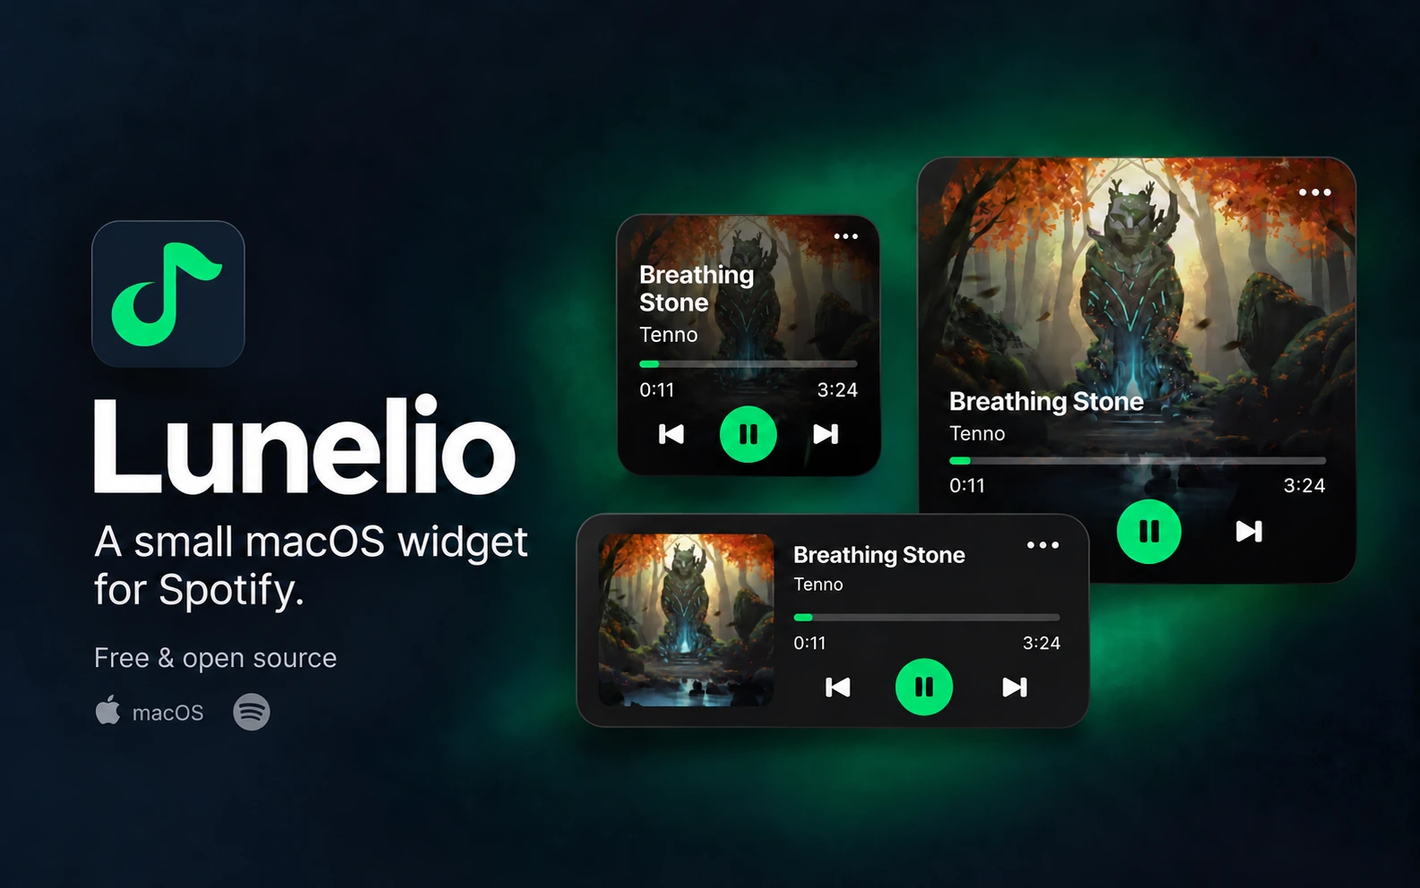
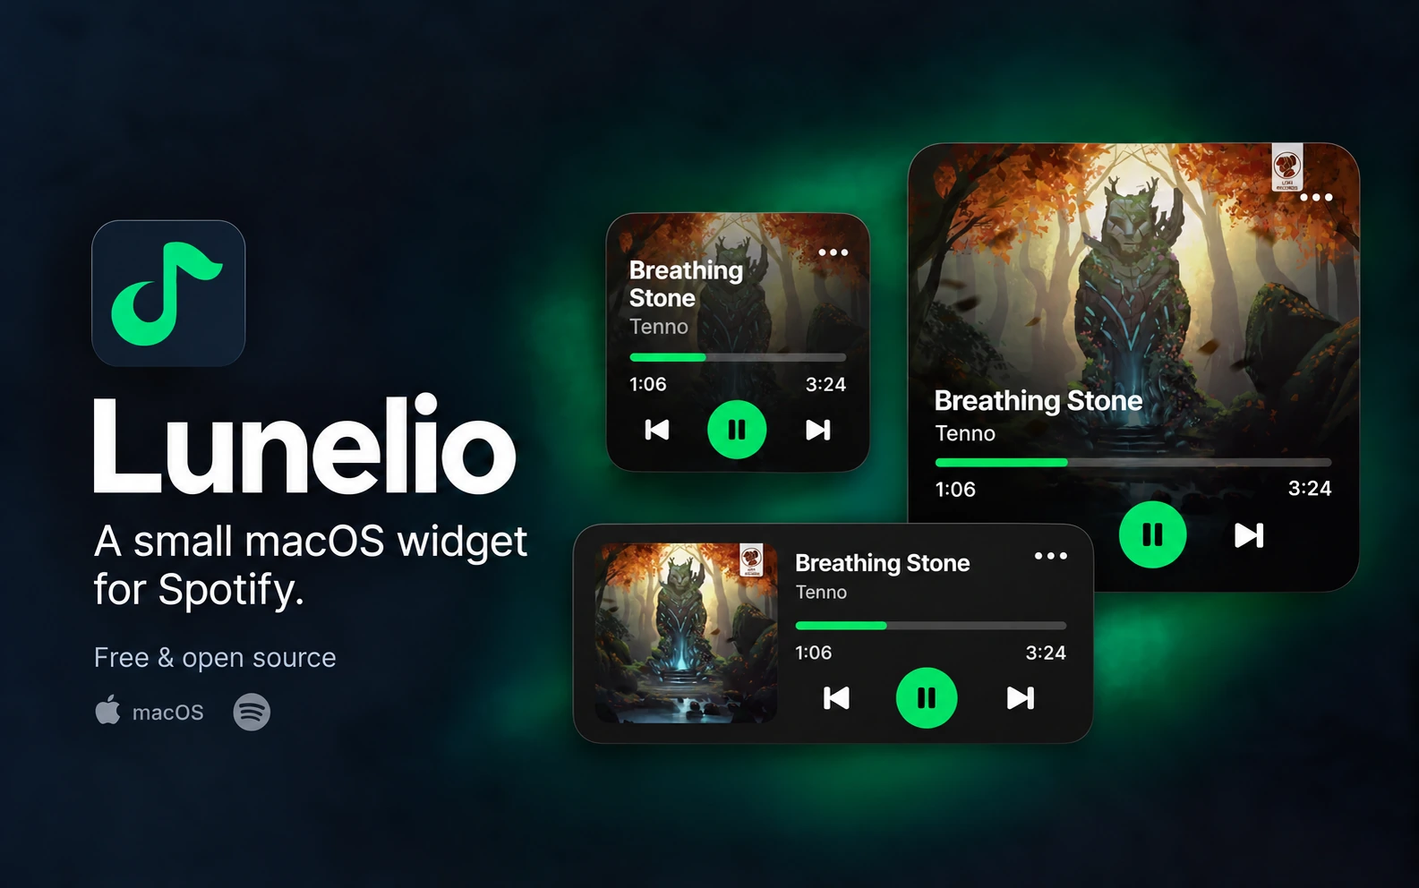
Add system appearance support and prepare 1.0.0

diff --git a/Sources/Widget/Widget.swift b/Sources/Widget/Widget.swift
@@ -41,30 +41,39 @@ struct MusicProvider: @preconcurrency TimelineProvider {
 
 struct MusicWidgetView: View {
     let entry: MusicEntry
+    @Environment(\.colorScheme) private var colorScheme
     #if WIDGET_PREVIEW
     let family: WidgetFamily
     #else
     @Environment(\.widgetFamily) var family
     #endif
     private let green = Color(red: 30 / 255, green: 215 / 255, blue: 96 / 255)
+    private var dark: Bool { colorScheme == .dark }
+    private var foreground: Color { dark ? .white : Color(white: 0.10) }
+    private var accent: Color {
+        dark ? green : Color(red: 8 / 255, green: 122 / 255, blue: 50 / 255)
+    }
     private var secondary: Color {
-        small || large ? Color.white.opacity(0.85) : Color(red: 179 / 255, green: 179 / 255, blue: 179 / 255)
+        if !dark { return Color(white: 0.30) }
+        return small || large ? Color.white.opacity(0.85) : Color(red: 179 / 255, green: 179 / 255, blue: 179 / 255)
     }
     private var small: Bool { family == .systemSmall }
     private var large: Bool { family == .systemLarge }
     private let artworkSize: CGFloat = 132
 
-    static var surface: some View {
-        LinearGradient(colors: [Color(white: 0.14), Color(white: 0.07)], startPoint: .topLeading, endPoint: .bottomTrailing)
+    private var surface: some View {
+        LinearGradient(colors: dark ? [Color(white: 0.14), Color(white: 0.07)] : [.white, Color(white: 0.94)],
+                       startPoint: .topLeading, endPoint: .bottomTrailing)
     }
 
     @ViewBuilder var widgetBackground: some View {
         if small || large, let data = entry.artwork, let image = NSImage(data: data) {
-            Color.black
+            (dark ? Color.black : Color.white)
                 .overlay { Image(nsImage: image).resizable().scaledToFill() }
                 .clipped()
                 .overlay {
-                    LinearGradient(stops: large ? [
+                    // Fade toward the current surface to keep text readable over any cover.
+                    LinearGradient(stops: dark ? (large ? [
                         .init(color: .black.opacity(0.75), location: 0),
                         .init(color: .black.opacity(0.12), location: 0.25),
                         .init(color: .black.opacity(0.85), location: 0.62),
@@ -73,10 +82,19 @@ struct MusicWidgetView: View {
                         .init(color: .black.opacity(0.60), location: 0),
                         .init(color: .black.opacity(0.66), location: 0.45),
                         .init(color: .black.opacity(0.90), location: 1)
-                    ], startPoint: .top, endPoint: .bottom)
+                    ]) : (large ? [
+                        .init(color: .white.opacity(0.82), location: 0),
+                        .init(color: .white.opacity(0.12), location: 0.25),
+                        .init(color: .white.opacity(0.90), location: 0.62),
+                        .init(color: .white.opacity(0.98), location: 1)
+                    ] : [
+                        .init(color: .white.opacity(0.80), location: 0),
+                        .init(color: .white.opacity(0.84), location: 0.45),
+                        .init(color: .white.opacity(0.97), location: 1)
+                    ]), startPoint: .top, endPoint: .bottom)
                 }
         } else {
-            Self.surface
+            surface
         }
     }
 
@@ -131,7 +149,7 @@ struct MusicWidgetView: View {
                 }
             }
         }
-        .foregroundStyle(.white)
+        .foregroundStyle(foreground)
         .frame(maxWidth: .infinity, maxHeight: .infinity, alignment: .center)
         .containerBackground(for: .widget) { widgetBackground }
         // Keep background navigation separate from the options' individual links.
@@ -187,7 +205,7 @@ struct MusicWidgetView: View {
         Button(intent: PlaybackIntent(.menu)) {
             Image(systemName: "ellipsis")
                 .font(.system(size: small ? 14 : 17, weight: .semibold))
-                .foregroundStyle(secondary)
+                .foregroundStyle(dark ? secondary : foreground)
                 .frame(width: small ? 24 : 28, height: small ? 40 : 28, alignment: large ? .center : .top)
                 .padding(large ? 6 : 0)
                 .contentShape(Rectangle())
@@ -199,14 +217,14 @@ struct MusicWidgetView: View {
     private func option(_ title: String, icon: String, url: URL) -> some View {
         Link(destination: url) {
             HStack(spacing: small ? 6 : 9) {
-                Image(systemName: icon).foregroundStyle(green).frame(width: small ? 14 : 18).accessibilityHidden(true)
+                Image(systemName: icon).foregroundStyle(accent).frame(width: small ? 14 : 18).accessibilityHidden(true)
                 Text(title).font(.system(size: large ? 14 : small ? 11 : 12, weight: .medium)).lineLimit(1)
                 Spacer(minLength: 0)
                 Image(systemName: "chevron.right").font(.system(size: 9, weight: .semibold))
                     .foregroundStyle(secondary).accessibilityHidden(true)
             }
             .padding(.horizontal, small ? 8 : 10).frame(height: large ? 40 : small ? 32 : 28)
-            .background(Color.white.opacity(0.07), in: RoundedRectangle(cornerRadius: 7))
+            .background(dark ? Color.white.opacity(0.07) : Color.black.opacity(0.06), in: RoundedRectangle(cornerRadius: 7))
             .contentShape(Rectangle())
         }
         .buttonStyle(.plain)
@@ -222,7 +240,7 @@ struct MusicWidgetView: View {
                     Image(nsImage: image).resizable().scaledToFill()
                 }
             } else {
-                (large ? Color.clear : Color(white: 0.19)).overlay {
+                (large ? Color.clear : Color(white: dark ? 0.19 : 0.88)).overlay {
                     if let url = Bundle.main.url(forResource: "BrandMark", withExtension: "png"),
                        let image = NSImage(contentsOf: url) {
                         Image(nsImage: image).resizable().scaledToFit().padding(7)
@@ -249,7 +267,7 @@ struct MusicWidgetView: View {
                 }
                 #endif
             }
-            .tint(green)
+            .tint(accent)
             .frame(height: small || large ? 4 : 3).clipShape(Capsule())
             .accessibilityHidden(true)
             .frame(height: 18)
@@ -296,8 +314,8 @@ struct MusicWidgetView: View {
     private var progressTrack: some View {
         GeometryReader { geometry in
             ZStack(alignment: .leading) {
-                Capsule().fill(Color.white.opacity(0.18))
-                Capsule().fill(green).frame(width: geometry.size.width * entry.playback.progress)
+                Capsule().fill(dark ? Color.white.opacity(0.18) : Color.black.opacity(0.18))
+                Capsule().fill(accent).frame(width: geometry.size.width * entry.playback.progress)
             }
         }
     }
@@ -306,7 +324,7 @@ struct MusicWidgetView: View {
         let opensSpotify = command == .toggle && entry.playback.title.isEmpty
         let image = Image(systemName: icon)
                 .font(.system(size: large ? 20 : command == .toggle ? 15 : 17, weight: .semibold))
-                .foregroundStyle(command == .toggle ? Color.black : Color.white)
+                .foregroundStyle(command == .toggle ? Color.black : foreground)
                 .frame(width: large ? 50 : small ? 32 : 36, height: large ? 50 : small ? 32 : 36)
                 .background {
                     if command == .toggle { Circle().fill(green) }
@@ -338,8 +356,6 @@ struct SpotifyMiniWidget: Widget {
     }
 }
 
-#endif
-
 #Preview("Small", as: .systemSmall) {
     SpotifyMiniWidget()
 } timeline: {
@@ -357,3 +373,4 @@ struct SpotifyMiniWidget: Widget {
 } timeline: {
     MusicEntry(date: .now, playback: Playback(title: "Your music", artist: "Spotify", position: 65, duration: 240, canControl: true, message: ""))
 }
+#endif

diff --git a/Sources/App/App.swift b/Sources/App/App.swift
@@ -6,10 +6,15 @@ import ServiceManagement
 
 struct SetupView: View {
     @ObservedObject var model: PlayerModel
+    @Environment(\.colorScheme) private var colorScheme
     let onHideMenuBarIconChange: (Bool) -> Void
     @AppStorage("hideMenuBarIcon") private var hideMenuBarIcon = false
     @State private var loginError = ""
     @State private var login = SMAppService.mainApp.status == .enabled
+
+    private var connectedColor: Color {
+        colorScheme == .dark ? .green : Color(red: 8 / 255, green: 122 / 255, blue: 50 / 255)
+    }
 
     var body: some View {
         ScrollView {
@@ -53,7 +58,7 @@ struct SetupView: View {
                 }
             }
             Text(model.playback.title.isEmpty ? model.playback.message : "Connected · \(model.playback.title)")
-                .font(.callout).foregroundStyle(model.playback.canControl ? Color.green : Color.secondary)
+                .font(.callout).foregroundStyle(model.playback.canControl ? connectedColor : Color.secondary)
                 .textSelection(.enabled).fixedSize(horizontal: false, vertical: true)
             Divider()
             Text("Desktop & Notification Center").font(.headline)

diff --git a/Scripts/package-release.py b/Scripts/package-release.py
@@ -1,5 +1,5 @@
 #!/usr/bin/env python3
-"""Package a universal, locally signed beta without changing the development app."""
+"""Package a universal, locally signed release without changing the development app."""
 import hashlib
 import json
 import plistlib
@@ -20,7 +20,7 @@ def stage_app(source: Path, destination: Path) -> dict:
     connector = json.loads((source / 'Contents/Resources/ChromeExtension/manifest.json').read_text())
     if (connector['version'], connector['version_name']) != (info['CFBundleShortVersionString'], info['CFBundleGetInfoString']):
         raise ValueError('Chrome connector version must match the app')
-    # A downloadable beta must not share the developer's private connection token.
+    # A downloadable release must not share the developer's private connection token.
     tokens = [Path('Contents/Resources/bridge-token.txt'), widget / 'Contents/Resources/bridge-token.txt']
     if any(not (source / path).read_text().strip() for path in tokens):
         raise ValueError('The app and widget need connection resources')
@@ -93,9 +93,10 @@ USE
 Use the widget buttons to play, pause, or skip; click the progress bar to seek.
 The three dots show Settings and Open Spotify inside the widget.
 Automatic selects the playing source, with Desktop taking priority in a tie.
+The widget theme follows the system's light or dark appearance automatically.
 
-BETA INSTALLATION
-This beta is locally signed, not Developer ID signed or notarized by Apple.
+MACOS INSTALLATION
+This app is locally signed, not Developer ID signed or notarized by Apple.
 If macOS cannot verify the developer, only proceed if you trust its source.
 After trying to open it, use System Settings > Privacy & Security > Open Anyway.
 Never override an alert saying the app will damage your computer.
@@ -110,7 +111,7 @@ iOS and iPadOS are not supported yet. macOS may delay widget updates.
         subprocess.run(['hdiutil', 'verify', str(image)], check=True)
         checksum = hashlib.sha256(image.read_bytes()).hexdigest()
         (output / f'{image.name}.sha256').write_text(f'{checksum}  {image.name}\n')
-        print(f'Beta installer: {image}\nLocally signed; public notarization and testing on a clean Mac are still pending.')
+        print(f'Installer: {image}\nLocally signed; public notarization and testing on a clean Mac are still pending.')
         return image
 
 

diff --git a/Tests/BuildScripts/test_prepare_resources.py b/Tests/BuildScripts/test_prepare_resources.py
@@ -66,6 +66,12 @@ class PrepareResourcesTests(unittest.TestCase):
         self.assertNotEqual(result.returncode, 0)
         self.assertEqual(sentinel.read_text(), 'existing files')
 
+    def test_stable_version_has_no_prerelease_suffix(self):
+        self.version('1.0.0', '1.0.0')
+        module.prepare(self.root)
+        manifest = json.loads((self.root / 'build/ChromeExtension/manifest.json').read_text())
+        self.assertEqual((manifest['version'], manifest['version_name']), ('1.0.0', '1.0.0'))
+
     def test_token_is_not_a_cleanable_resource_phase_output(self):
         path = Path(__file__).resolve().parents[2] / 'Lunelio.xcodeproj/project.pbxproj'
         project = json.loads(subprocess.check_output(['plutil', '-convert', 'json', '-o', '-', str(path)]))

diff --git a/README.md b/README.md
@@ -9,27 +9,26 @@ Free to use, with all features included. No Spotify Premium subscription or API 
 
 See what’s playing, pause, skip, and seek from your desktop or Notification Center.
 
-[![Release](https://img.shields.io/badge/release-v0.1.2--beta-1DB954?style=flat-square)](https://github.com/YRlp98/Lunelio/releases/tag/v0.1.2-beta)
+[![Version 1.0.0](https://img.shields.io/badge/version-1.0.0-1DB954?style=flat-square)](CHANGELOG.md#100--unreleased)
 [![License: MIT](https://img.shields.io/badge/license-MIT-1DB954?style=flat-square)](LICENSE)
-[![Star on GitHub](https://img.shields.io/badge/GitHub-star-181717?style=flat-square&logo=github)](https://github.com/YRlp98/Lunelio/stargazers)
+[![GitHub stars](https://img.shields.io/github/stars/YRlp98/Lunelio?style=flat-square&logo=github&label=stars)](https://github.com/YRlp98/Lunelio/stargazers)
 [![macOS 14+](https://img.shields.io/badge/macOS-14%2B-555555?style=flat-square&logo=apple)](#current-support)
 
-[![Download for Mac](https://img.shields.io/badge/download-for%20Mac-1DB954?style=flat-square)](https://github.com/YRlp98/Lunelio/releases/tag/v0.1.2-beta)
+[![Download for Mac](https://img.shields.io/badge/download-for%20Mac-1DB954?style=flat-square)](https://github.com/YRlp98/Lunelio/releases)
 
-![Lunelio cover with small, medium, and large macOS widgets playing Breathing Stone by Tenno](Docs/Images/lunelio-cover.webp)
+![Lunelio cover with dark macOS widgets playing Breathing Stone by Tenno](Docs/Images/lunelio-cover.webp)
 
 ## Current support
 
 - **macOS 14 or later.** Support for other operating systems is planned.
 - **Spotify Desktop and the Spotify web player in Google Chrome.** More browsers are planned.
 
-Current release: **[0.1.2-beta](https://github.com/YRlp98/Lunelio/releases/tag/v0.1.2-beta)** · [Changelog](CHANGELOG.md)
-
-Upcoming beta: **0.2.2-beta**, with about **80% lower CPU usage** in our short Chrome playback test, automatic helper shutdown when Spotify tabs close, and clearer setup instructions. See the [unreleased changes](CHANGELOG.md#022-beta--unreleased).
+Version **1.0.0** is being prepared for release, with automatic light and dark themes and about **80% lower CPU usage** in our short Chrome playback test. [Changelog](CHANGELOG.md#100--unreleased) · [Published releases](https://github.com/YRlp98/Lunelio/releases).
 
 ## Features
 
 - Small, medium, and large widgets with album artwork, song details, and track progress.
+- Light and dark themes that follow the system appearance automatically.
 - Play/pause, previous, and next controls.
 - Click the progress bar to seek in 10% steps, from 0% to 100%.
 - Automatic switching between Spotify Desktop and Chrome based on what’s playing.
@@ -42,18 +41,14 @@ I’m actively improving Lunelio and adding more features.
 ![Lunelio’s small, medium, and large widgets on the macOS desktop, with the medium widget also in Notification Center](Docs/Images/lunelio-desktop.webp)
 
 <details>
-  <summary>See the small and large widgets, menu, and Settings</summary>
+  <summary>Light and dark appearance, and Settings</summary>
 
   <p align="center">
-    <img src="Docs/Images/widget-small.png" alt="Lunelio small widget preview with album artwork as its background" width="164">
-    <img src="Docs/Images/widget-large.png" alt="Lunelio large widget preview with album artwork and larger playback controls" width="344">
+    <img src="Docs/Images/widget-themes.webp" alt="Lunelio’s small, medium, and large widgets in light and dark appearance, showing Breathing Stone by Tenno" width="1120">
   </p>
 
   <p align="center">
-    <img src="Docs/Images/widget-options.png" alt="Lunelio’s inline widget menu with Settings and Open Spotify" width="600">
-  </p>
-  <p align="center">
-    <img src="Docs/Images/settings.png" alt="Lunelio Settings with Spotify Desktop and Chrome connection options" width="490">
+    <img src="Docs/Images/settings.webp" alt="Lunelio 1.0.0 Settings with Spotify Desktop and Chrome connection options" width="490">
   </p>
 </details>
 
@@ -61,9 +56,9 @@ I’m actively improving Lunelio and adding more features.
 
 ## How to use
 
-Download **[Lunelio-0.1.2-beta.dmg](https://github.com/YRlp98/Lunelio/releases/download/v0.1.2-beta/Lunelio-0.1.2-beta.dmg)**, open it, and drag **Lunelio** to **Applications**. No Xcode is needed to use the app.
+Download the **Mac installer (.dmg)** from [Releases](https://github.com/YRlp98/Lunelio/releases), open it, and drag **Lunelio** to **Applications**. No Xcode is needed to use the app.
 
-This beta is not notarized yet. See the [installation guide](Docs/Installing%20Lunelio.md) if macOS blocks it.
+The app is not notarized yet. See the [installation guide](Docs/Installing%20Lunelio.md) if macOS blocks it.
 
 1. Open **Lunelio**.
 2. Right-click your desktop → **Edit Widgets → Lunelio** and add a small, medium, or large widget. You can also add it in Notification Center.
@@ -88,6 +83,8 @@ This also works with Spotify installed as a Chrome web app. Choose **Automatic**
 
 Click the cover to open Spotify, or **•••** for Settings. macOS may delay widget updates.
 
+Lunelio follows the system’s light or dark appearance automatically. No theme switch is needed in the app.
+
 ## Development
 
 Open **Lunelio.xcodeproj**, select **Lunelio → My Mac**, then press **⌘R** to run or **⌘U** to test. From the project folder:
@@ -95,10 +92,10 @@ Open **Lunelio.xcodeproj**, select **Lunelio → My Mac**, then press **⌘R** t
 ```sh
 ./build.command   # Build the app
 ./check.command   # Run all regression checks
-./package.command # Create the beta installer in build/Downloads/
+./package.command # Create the installer in build/Downloads/
 ```
 
-The current development version is **0.2.2-beta**. The app, widget, and connector share their version in **Config/Version.xcconfig**. The Chrome connection waits for commands during playback and exits when no Spotify tabs remain. Background polling stops when no player is connected. Both reconnect automatically.
+The current development version is **1.0.0**. The app, widget, and connector share their version in **Config/Version.xcconfig**. The Chrome connection waits for commands during playback and exits when no Spotify tabs remain. Background polling stops when no player is connected. Both reconnect automatically.
 
 See [Editing in Xcode](Docs/Editing%20in%20Xcode.md) for the code map and [Release Guide](Docs/Release%20Guide.md) for distribution details.
 

diff --git a/Docs/Release Guide.md b/Docs/Release Guide.md
@@ -1,20 +1,20 @@
 # Preparing Lunelio for public release
 
-Run **./package.command** to create **build/Downloads/Lunelio-0.2.2-beta.dmg** and its SHA-256 checksum. The disk image includes the complete app, embedded widget, native helper, Chrome connector, an Applications shortcut, user instructions, and the MIT license. The app also includes the license in its resources. All three executables contain Apple silicon and Intel binaries.
+Run **./package.command** to create **build/Downloads/Lunelio-1.0.0.dmg** and its SHA-256 checksum. The disk image includes the complete app, embedded widget, native helper, Chrome connector, an Applications shortcut, user instructions, and the MIT license. The app also includes the license in its resources. All three executables contain Apple silicon and Intel binaries.
 
 The packager uses a separate app copy, replaces the development connection token with a fresh package token, and signs the helper, widget, and app locally. It checks matching versions, architectures, signatures, and the disk image. It does not change the running development app or its compatibility links.
 
-## Beta downloads
+## Downloads
 
-Publish each beta through [GitHub Releases](https://github.com/YRlp98/Lunelio/releases), with a matching version tag, the DMG, and its `.sha256` file. The latest published release is **v0.1.2-beta**; the next release tag is **v0.2.2-beta**. Keep the README’s release summary and the README and installation guide’s download links in sync with the release. Users drag the app to Applications; they do not build it. Explain that this beta is not notarized and link [Installing Lunelio](Installing%20Lunelio.md).
+Publish each release through [GitHub Releases](https://github.com/YRlp98/Lunelio/releases), with a matching version tag, the DMG, and its `.sha256` file. The latest published release is **v0.1.2-beta**; the next release tag is **v1.0.0**. Keep the README’s release summary and the README and installation guide’s download links in sync with the release. Users drag the app to Applications; they do not build it. Explain that the app is not notarized and link [Installing Lunelio](Installing%20Lunelio.md).
 
-Record each release in [CHANGELOG.md](../CHANGELOG.md). Replace its Unreleased label with the publication date and copy that version’s changes into the GitHub release notes. Keep beta releases marked as pre-releases.
+Record each release in [CHANGELOG.md](../CHANGELOG.md). Replace its Unreleased label with the publication date and copy that version’s changes into the GitHub release notes. Publish 1.0.0 as a full release, with the pre-release checkbox off. Keep older beta releases marked as pre-releases.
 
-Installation on a clean Mac, Intel runtime behavior, and restart recovery still need testing before recommending the beta broadly. The Chrome connector remains an unpacked installation until it is published to the Chrome Web Store.
+Installation on a clean Mac, Intel runtime behavior, and restart recovery still need testing before recommending the app broadly. The Chrome connector remains an unpacked installation until it is published to the Chrome Web Store.
 
 ## Public signing
 
-The current beta uses local signing, so macOS may require a one-time security approval. For ordinary public installation, use Developer ID signing and Apple notarization. This Mac currently has no Developer ID identity; the public signing steps below remain pending.
+The current build uses local signing, so macOS may require a one-time security approval. For ordinary public installation, use Developer ID signing and Apple notarization. This Mac currently has no Developer ID identity; the public signing steps below remain pending.
 
 ## Chrome connector
 
@@ -29,7 +29,7 @@ Chrome documentation: [Publishing](https://developer.chrome.com/docs/webstore/pu
 
 ## Mac application
 
-Choose permanent bundle identifiers before release. Use your Apple Developer ID certificate to sign the helper, widget extension, and containing app, in that order, with hardened runtime and a secure timestamp. Preserve the widget’s sandbox and network-client entitlements, the app’s Apple events entitlement, and its NSAppleEventsUsageDescription for the desktop connection. Config/Project.xcconfig currently configures ad hoc local signing. Set the native targets’ distribution signing and hardened runtime settings for public releases; preserve the widget’s entitlements. The current beta packager re-signs its staged copy locally, so replace that signing step with Developer ID signing before notarizing a public build.
+Choose permanent bundle identifiers before release. Use your Apple Developer ID certificate to sign the helper, widget extension, and containing app, in that order, with hardened runtime and a secure timestamp. Preserve the widget’s sandbox and network-client entitlements, the app’s Apple events entitlement, and its NSAppleEventsUsageDescription for the desktop connection. Config/Project.xcconfig currently configures ad hoc local signing. Set the native targets’ distribution signing and hardened runtime settings for public releases; preserve the widget’s entitlements. The current packager re-signs its staged copy locally, so replace that signing step with Developer ID signing before notarizing a public build.
 
 Notarize the final signed package using Apple’s notary service, staple the accepted ticket, then verify installation and Gatekeeper acceptance on a clean Mac. Test opening the app from Applications, connecting Spotify Desktop with allowed and denied Automation permission, installing the browser connector, adding all three widget sizes, switching sources, and controlling playback. Build and test an Intel version too if Intel Macs will be supported.
 

diff --git a/CHANGELOG.md b/CHANGELOG.md
@@ -1,6 +1,25 @@
 # Changelog
 
-## 0.2.2-beta — Unreleased
+## 1.0.0 — Unreleased
+
+### Added
+
+- Light mode for small, medium, and large widgets, including the inline menu and disconnected state. The theme follows the system appearance automatically.
+- Dark text, light surfaces, artwork fades, and contrasting green progress and menu icons in light mode. Keep the existing dark appearance.
+- Improve the Settings connection status contrast in light mode.
+
+### Changed
+
+- Move the app, widget, and Chrome connector to the shared stable version **1.0.0**.
+- Include the playback and efficiency improvements recorded in the 0.2.2-beta development build below, which was not published separately.
+- Refresh the README with a dark-mode cover, light and dark widget previews, current Settings, and a live GitHub stars badge.
+
+### Validation
+
+- Rendered all three sizes in light and dark mode with playback, menus, disconnected states, long titles, and bright, dark, or missing artwork. Twelve static dark-mode comparisons match the previous appearance pixel for pixel.
+- Passed 14 Swift regression tests and 12 build-script tests, including stable connector version generation. Confirmed the live system switch to Dark; Settings follows both appearances and displays **1.0.0**.
+
+## 0.2.2-beta — Development build
 
 Includes the changes tested locally as 0.2.0-beta and 0.2.1-beta; those builds were not published.
 
